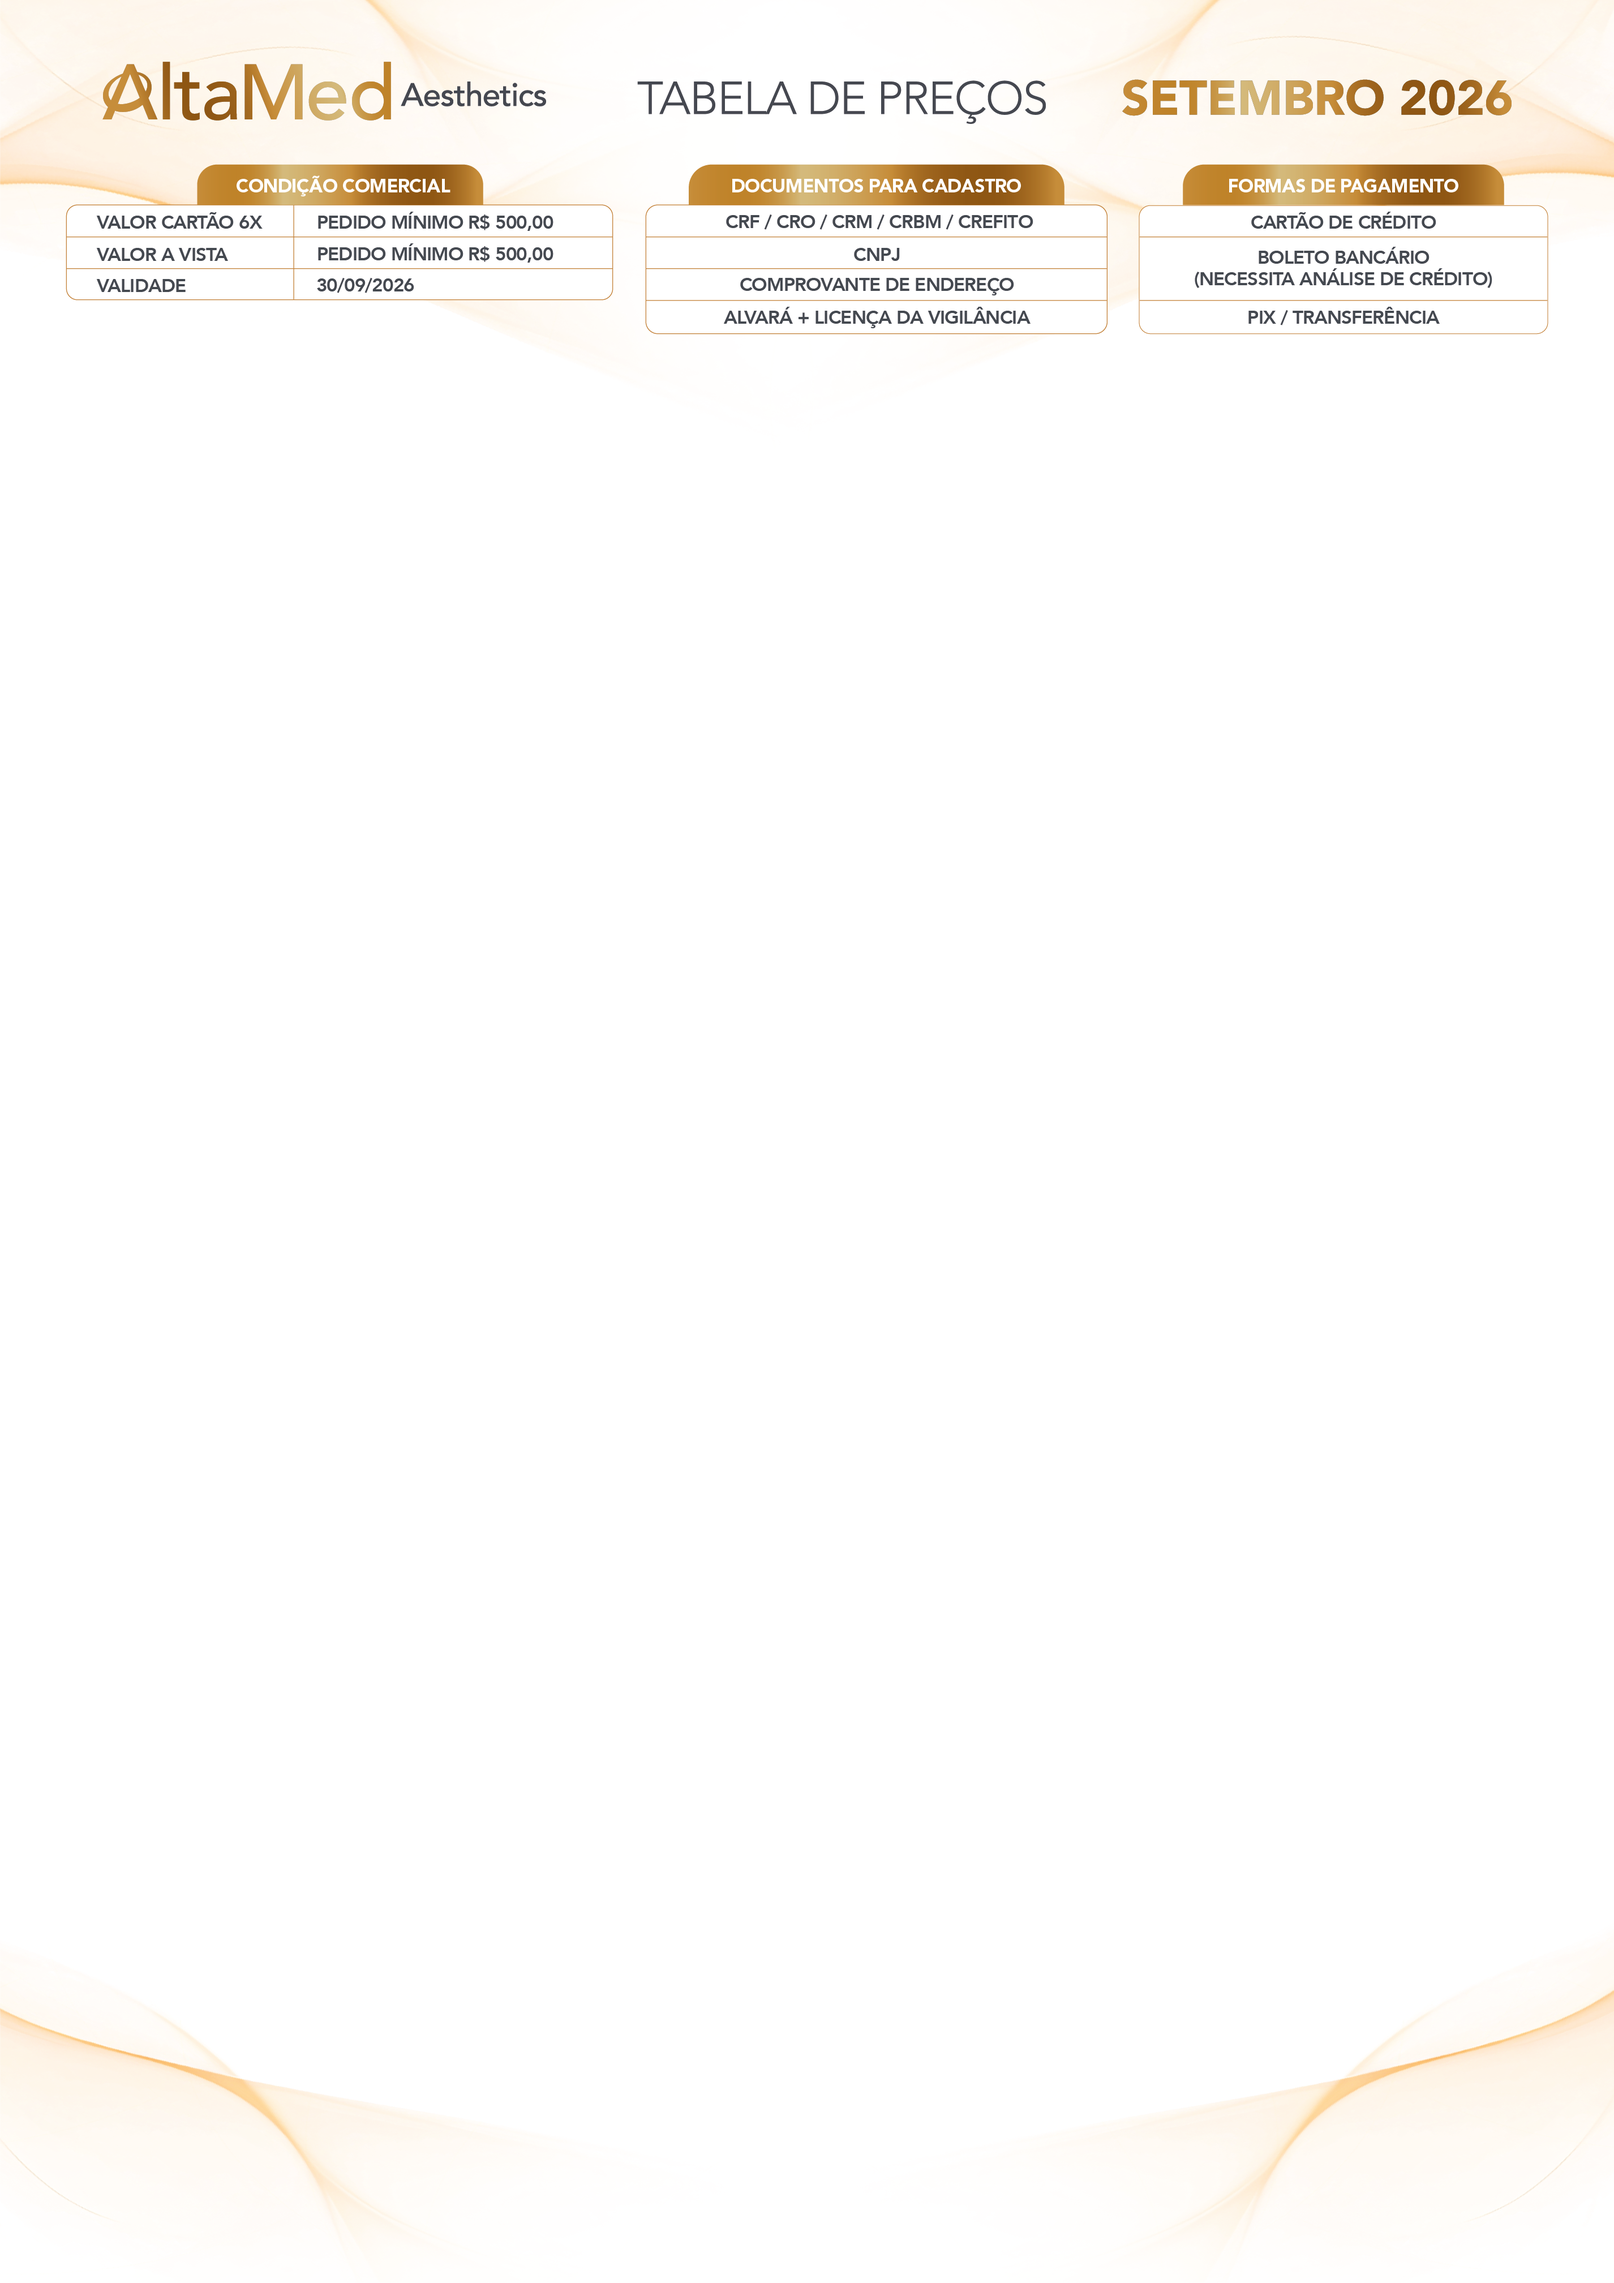
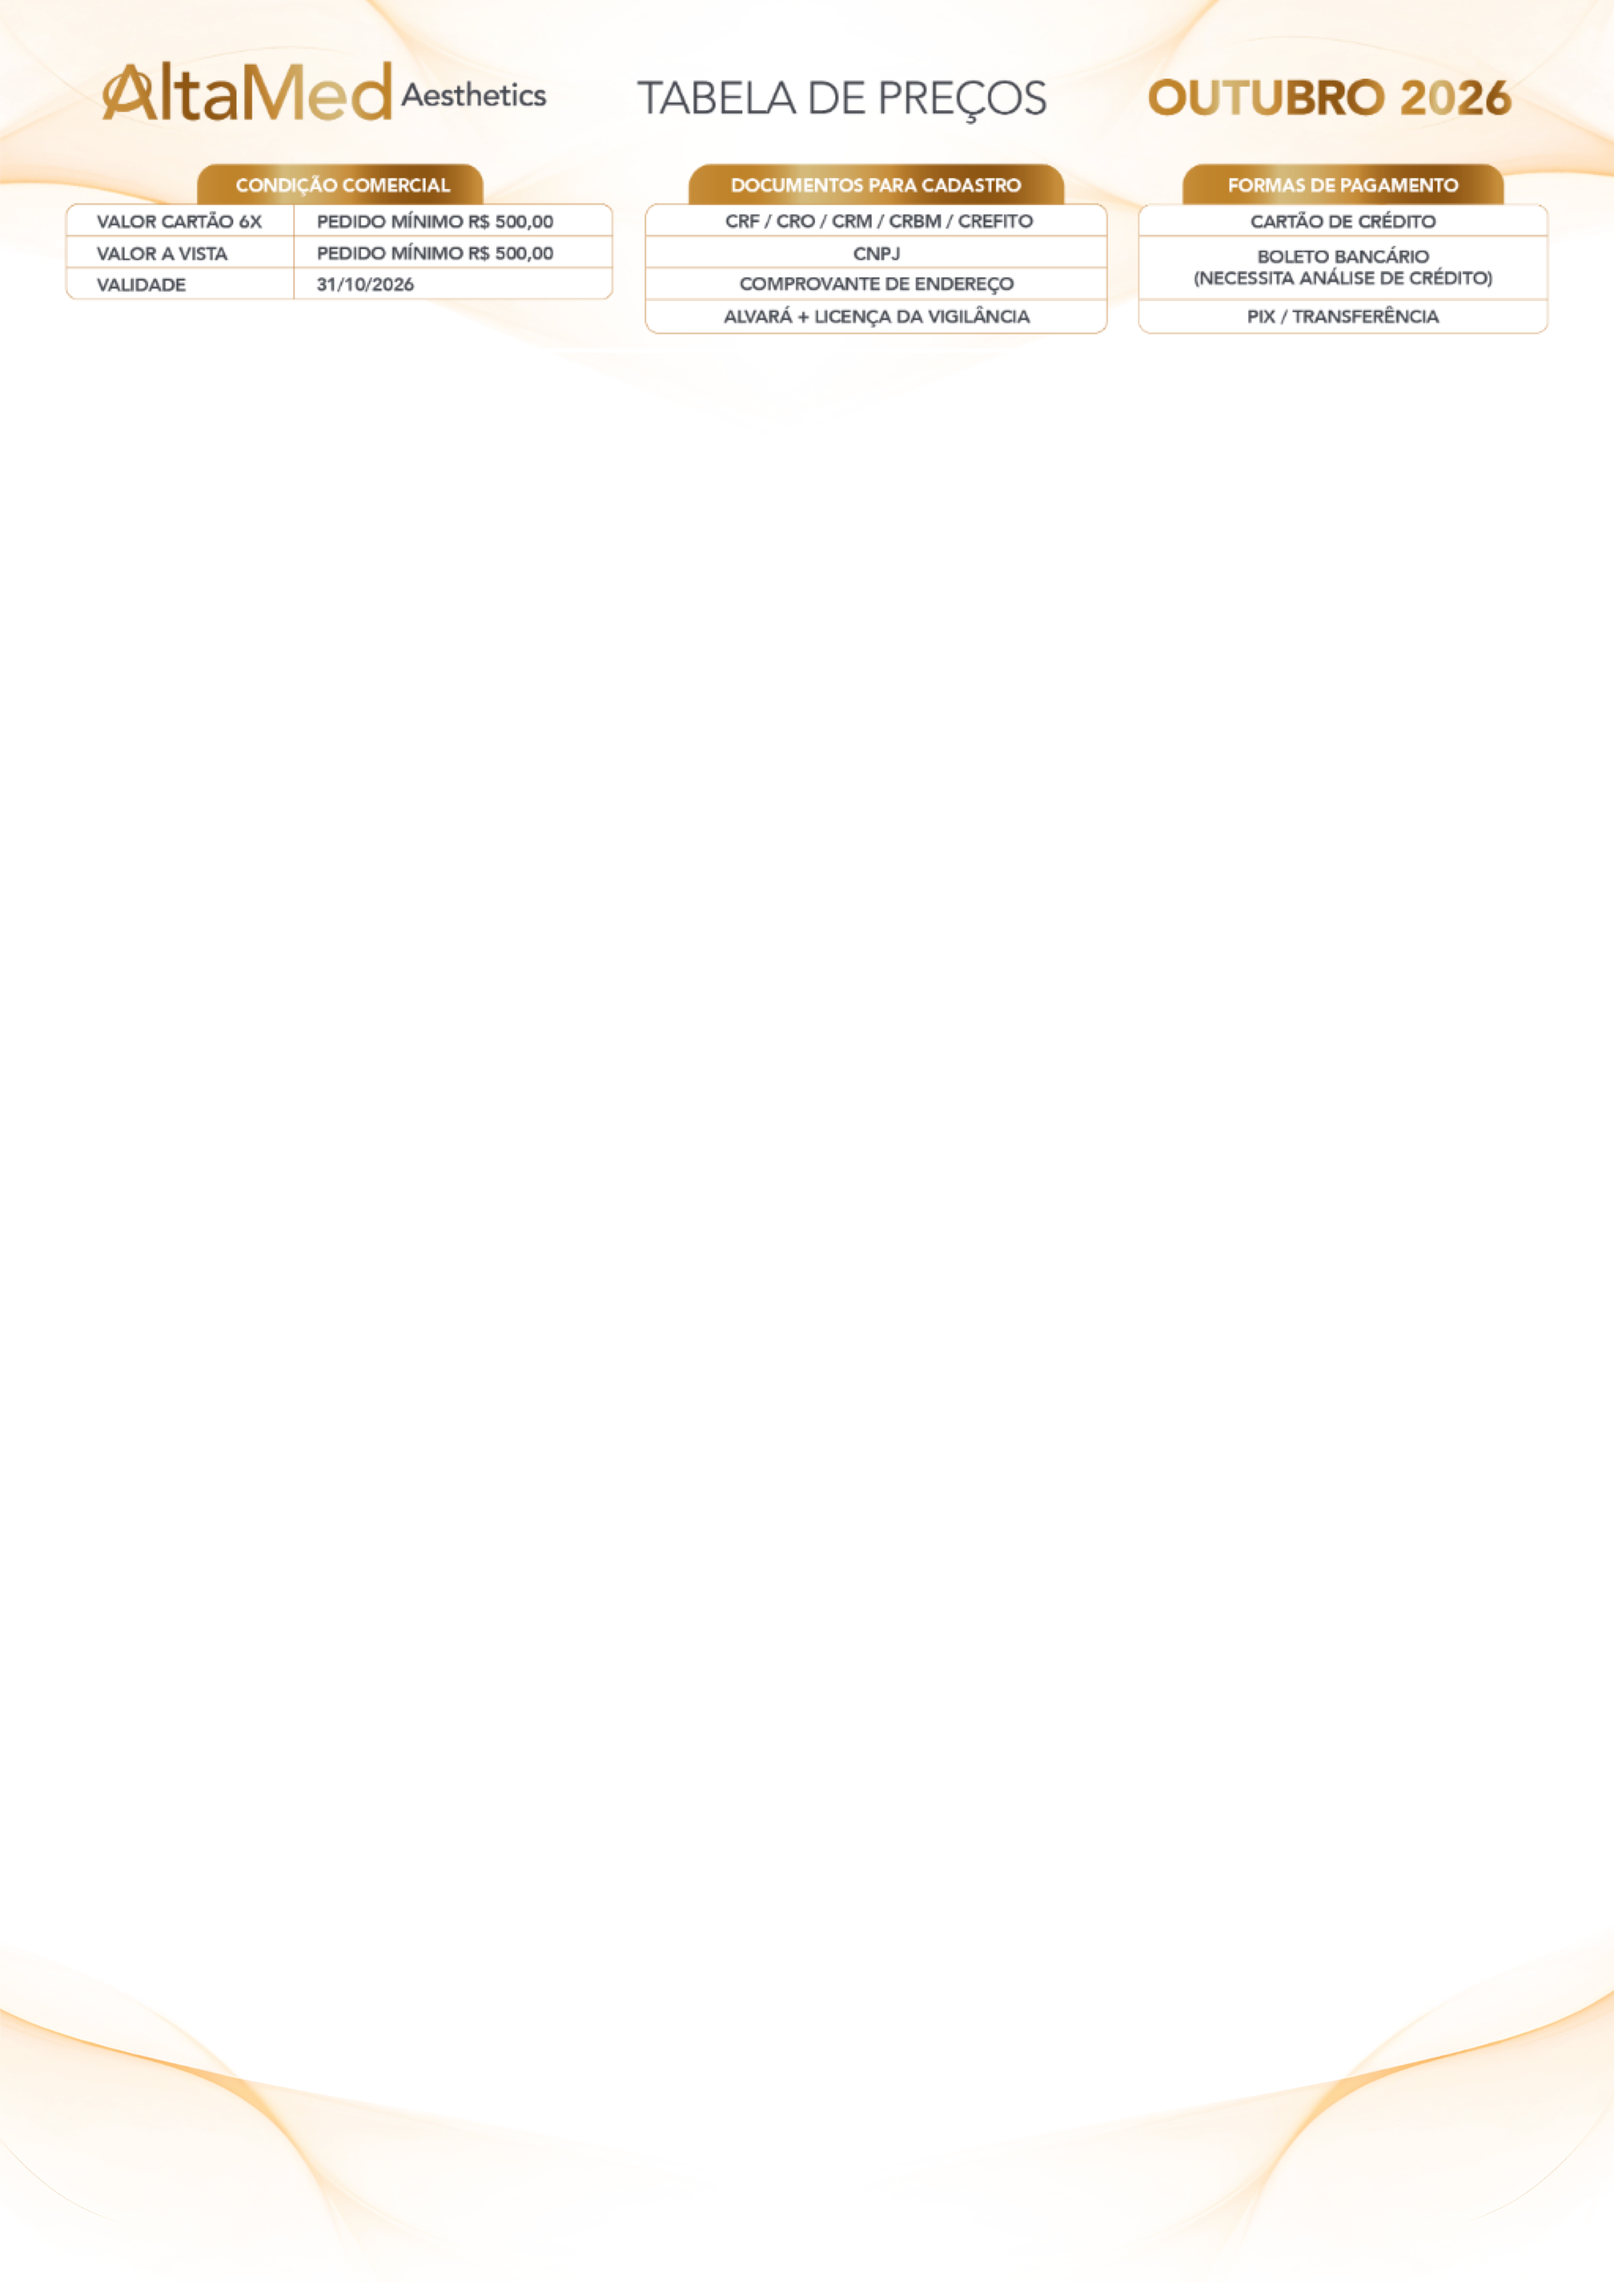
Mostra a unidade ao lado da categoria no card e atualiza o cabeçalho do PDF para outubro de 2026.

Changed region(s): [[0.4057, 0.0312, 0.6865, 0.1562], [0.6865, 0.0312, 0.9362, 0.1562], [0.0312, 0.0312, 0.3433, 0.1249]]

diff --git a/src/components/ProductCard.tsx b/src/components/ProductCard.tsx
@@ -28,8 +28,16 @@ type Props = {
   onConsult?: () => void;
 };
 
+function categoryWithUnit(product: ProductCardData): string | null {
+  const category = product.category?.trim() ?? "";
+  const unit = product.unit?.trim() ?? "";
+  if (category && unit) return `${category} - ${unit}`;
+  return category || unit || null;
+}
+
 export function ProductCard({ product, whatsappNumber, layout = "grid", onSelect, onConsult }: Props) {
   const unitValue = resolveUnitPrice(product.price, product.qtd, product.preco_unitario);
+  const categoryLine = categoryWithUnit(product);
   const showPrices = product.price_visible !== false;
   const waLink = buildWhatsAppLink(whatsappNumber ?? "", product.name, product.image_url);
   const selectProps = onSelect
@@ -122,8 +130,8 @@ export function ProductCard({ product, whatsappNumber, layout = "grid", onSelect
           <h3 className="product-title mt-1 text-base font-bold leading-tight text-foreground line-clamp-2">
             {product.name}
           </h3>
-          {product.category && (
-            <p className="mt-1 text-sm text-muted-foreground">{product.category}</p>
+          {categoryLine && (
+            <p className="mt-1 text-sm text-muted-foreground">{categoryLine}</p>
           )}
           {showPrices && Number(product.price) > 0 && (
             <p className="mt-1 text-base font-bold text-primary">{formatBRL(product.price)}</p>
@@ -171,8 +179,8 @@ export function ProductCard({ product, whatsappNumber, layout = "grid", onSelect
           </p>
         )}
         <h3 className="product-title text-sm font-bold leading-tight text-foreground">{product.name}</h3>
-        {product.category && (
-          <p className="mt-1 text-sm text-muted-foreground">{product.category}</p>
+        {categoryLine && (
+          <p className="mt-1 text-sm text-muted-foreground">{categoryLine}</p>
         )}
         {showPrices && Number(product.price) > 0 && (
           <p className="mt-2 text-lg font-bold text-primary">{formatBRL(product.price)}</p>
